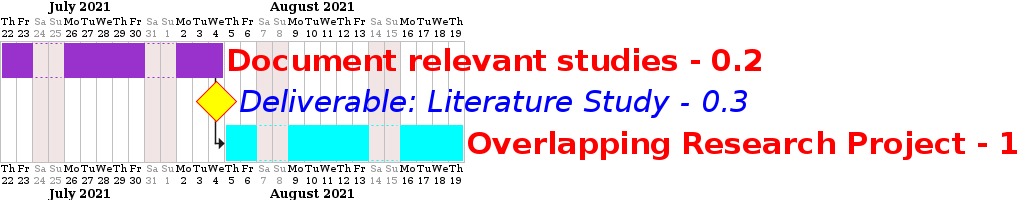
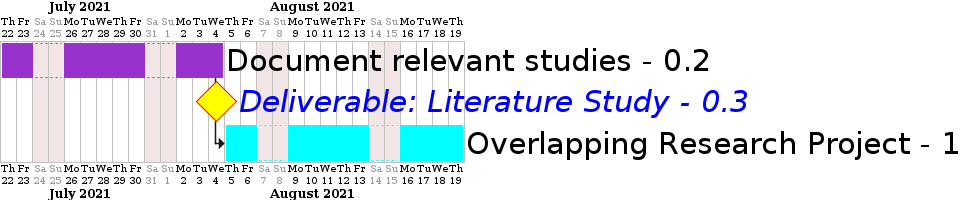
Included milestones in Gantt chart.

Changed region(s): [[0.0, 0.0, 0.999, 1.0], [0.0312, 0.0, 0.1249, 0.06]]

diff --git a/src/export_data/Milestone.py b/src/export_data/Milestone.py
@@ -1,0 +1,121 @@
+"""Rpresents a milestone object that can be added to the end of an activity."""
+
+
+import re
+
+
+# pylint: disable=R0903
+class Milestone:
+    """Used to create a milestone at the end or start of an activity in a Gantt
+    chart."""
+
+    # pylint: disable=R0913
+    def __init__(
+        self,
+        description,
+        font_size,
+        at_end=True,
+        date=None,
+    ):
+        self.font_size = font_size
+        if font_size is None:
+            raise Exception("Error, milestone fontsize not set.")
+        self.description = description
+        self.at_end = at_end
+        self.date = date
+
+        # Create an alphanumeric tag with underscores.
+        self.tag = re.sub(r"[^A-Za-z0-9_]+", "_", self.description).lower()
+        # Specify milestone stile.
+
+
+def get_milestone_style(colour, fontsize, backgroundcolour, linecolour):
+    """Returns the UML style specification of a milestone.
+
+    :param colour:
+    :param fontsize:
+    :param backgroundcolour:
+    :param linecolour:
+    """
+    left = """
+    <style>
+    ganttDiagram {
+    milestone {
+"""
+    middle = f"""
+        FontColor {colour}
+        FontSize {fontsize}
+        FontStyle italic
+        BackGroundColor {backgroundcolour}
+        LineColor {linecolour}
+"""
+    end = """
+    }
+}
+</style>
+    """
+    return left + middle + end
+
+
+def get_milestone_uml_line(milestone, activity_tag):
+    """Returns the uml line for a milestone.
+
+    :param milestone: param activity_tag:
+    :param activity_tag:
+    """
+    if milestone.date is not None:
+        milestone = get_milestone_for_date(milestone)
+    else:
+        milestone = get_milestone_for_activity(milestone, activity_tag)
+    print(f"milestone={milestone}")
+    return milestone
+
+
+def get_milestone_for_activity(milestone, activity_tag):
+    """returns a milestone for a certain activity.
+
+    :param milestone: param activity_tag:
+    :param activity_tag:
+    """
+    left = get_milestone_left(milestone)
+    right = get_milestone_right(milestone, activity_tag)
+    return left + right
+
+
+def get_milestone_for_date(milestone):
+    """Return milestone for a certain date.
+
+    :param milestone:
+    """
+    left = get_milestone_left(milestone)
+    if milestone.date is not None:
+        # TODO: verify date format is valid yyyy-mm-dd
+        right = f" {milestone.date}"
+    milestone = left + right
+    print(f"milestone={milestone}")
+    return milestone
+
+
+def get_milestone_left(milestone):
+    """Returns the left part of a milestone description.
+
+    :param milestone:
+    """
+    left = (
+        f"[<size:{milestone.font_size}>{milestone.description} - "
+        + f"{milestone.tag}] as [{milestone.tag}] happens "
+    )
+    return left
+
+
+def get_milestone_right(milestone, activity_tag):
+    """Returns the right part of a milestone description.
+
+    :param milestone: param activity_tag:
+    :param activity_tag:
+    """
+    if milestone.at_end:
+        right = "at [" + activity_tag + "]'s end"
+    elif not milestone.at_end:
+        right = "at [" + activity_tag + "]'s start"
+    return right

diff --git a/src/Gantt.py b/src/Gantt.py
@@ -1,6 +1,11 @@
 """Creates the Gantt chart specified in create_python_gantt."""
 
 from src.Create_python_gantt import create_python_gantt
+from src.export_data.Milestone import (
+    get_milestone_for_date,
+    get_milestone_style,
+    get_milestone_uml_line,
+)
 
 
 # pylint: disable=R0902
@@ -11,24 +16,37 @@ class Gantt:
         self.start_line = "@startgantt"
         self.project_start_date = "2022/10-01"
         self.closed_days = ["saturday", "sunday"]
-        self.gantt_font_size = "skinparam classFontSize 100"
+        self.gantt_font_size = 100
+        self.gantt_font_size_line = (
+            f"skinparam classFontSize {self.gantt_font_size}"
+        )
         self.box_font_size = "30"
 
         # self.font_size="skinparam defaultFontSize  100"
-        self.parents = create_python_gantt(params["wages"])
+        self.parents, self.date_milestones = create_python_gantt(
+            params["wages"], self.box_font_size, self.project_start_date
+        )
         self.end_line = "@endgantt"
-        self.lines, self.parent_costs = self.get_list()
+        self.lines, self.parent_costs = self.get_plantuml_gantt_lines()
         self.write_gantt(filepath, self.lines)
 
         self.costs = None
 
-    def get_list(self):
+    def get_plantuml_gantt_lines(self):
         """Gets the list of lines of the UML file to create a Gantt chart."""
         lines = []
         lines.append(self.start_line)
         lines.append(f"project starts the {self.project_start_date}")
         lines = self.add_closed_dates(lines)
-        lines.append(self.gantt_font_size)
+        lines.append(self.gantt_font_size_line)
+        # Add milestone style here
+        lines.append(get_milestone_style("blue", 100, "red", "yellow"))
+
+        # Include date milestones
+        for date_milestone in self.date_milestones:
+            lines.append(get_milestone_for_date(date_milestone))
+
+        # Writes acitivity line, appends milestone line below activity.
         lines, parent_costs = self.loop_through_parents_printing(lines)
         lines.append(self.end_line)
         return lines, parent_costs
@@ -142,6 +160,12 @@ class Gantt:
             f"[<size:{font_size}>{activity.description}] as ["
             + f"{activity.get_tag()}] lasts {activity.duration} days"
         )
+
+        # If activity has milestone, include it here.
+        if activity.milestone is not None:
+            lines.append(
+                get_milestone_uml_line(activity.milestone, activity.get_tag())
+            )
         for child in activity.children:
             lines = self.print_descriptions(child, lines)
         return lines

diff --git a/src/Create_python_gantt.py b/src/Create_python_gantt.py
@@ -10,15 +10,25 @@ after activity X, and make activity Y start at the end of the new
 activity. Then it automatically updates all the tags, for all
 properties, e.g. activity descriptions, colours, order etc.
 """
+from src.export_data.Milestone import Milestone
+
 from .Activity import Activity
 
 
 # pylint: disable=R0914
-def create_python_gantt(wages: dict):
+def create_python_gantt(
+    wages: dict, milestone_font_size=None, start_date=None
+):
     """Specifies the data for a Gantt chart."""
     # Create a list to store the parent activities
     parents = []
-
+    date_milestones = [
+        Milestone(
+            description="Complete CI deployment",
+            font_size=milestone_font_size,
+            date=start_date,
+        )
+    ]
     # parent one
     protocol = Activity(
         description="Develop protocol",
@@ -50,6 +60,10 @@ def create_python_gantt(wages: dict):
         parent=protocol,
         starts_at_child_nr_start=0,
         hourly_wage=wages["blockchain_dev"],
+        milestone=Milestone(
+            description="Support all languages",
+            font_size=milestone_font_size,
+        ),
     )
     alt_chains = Activity(
         description="Alternative Chains",
@@ -112,6 +126,12 @@ def create_python_gantt(wages: dict):
         duration=30,
         new_tag=3,
         parent=platform_eco,
+        milestone=Milestone(
+            description="First Customer Usage",
+            font_size=milestone_font_size,
+            # TODO: remove date, make it place on the right position.
+            date="2023-03-17",
+        ),
     )
 
     # Grandchildren
@@ -167,6 +187,12 @@ def create_python_gantt(wages: dict):
         duration=20,
         new_tag=3,
         parent=company,
+        milestone=Milestone(
+            description="Operational Break Even",
+            font_size=milestone_font_size,
+            # TODO: remove date, make it place on the right position.
+            date="2023-06-09",
+        ),
     )
 
     # Grandchildren
@@ -197,7 +223,9 @@ def create_python_gantt(wages: dict):
     )
     parents.append(company)
 
-    return parents
+    # Create Milestones
+
+    return parents, date_milestones
 
 
 def addTwo(x):

diff --git a/src/Activity.py b/src/Activity.py
@@ -21,6 +21,7 @@ class Activity:
         hours_per_day=None,
         min_parallel_workers=1,
         max_parallel_workers=1,
+        milestone=None,
     ):
         self.parent = parent
         self.description = description
@@ -32,6 +33,7 @@ class Activity:
         self.hourly_wage = hourly_wage
         self.min_parallel_workers = min_parallel_workers
         self.max_parallel_workers = max_parallel_workers
+        self.milestone = milestone
 
         if hours_per_day is None:
             self.hours_per_day = 8
